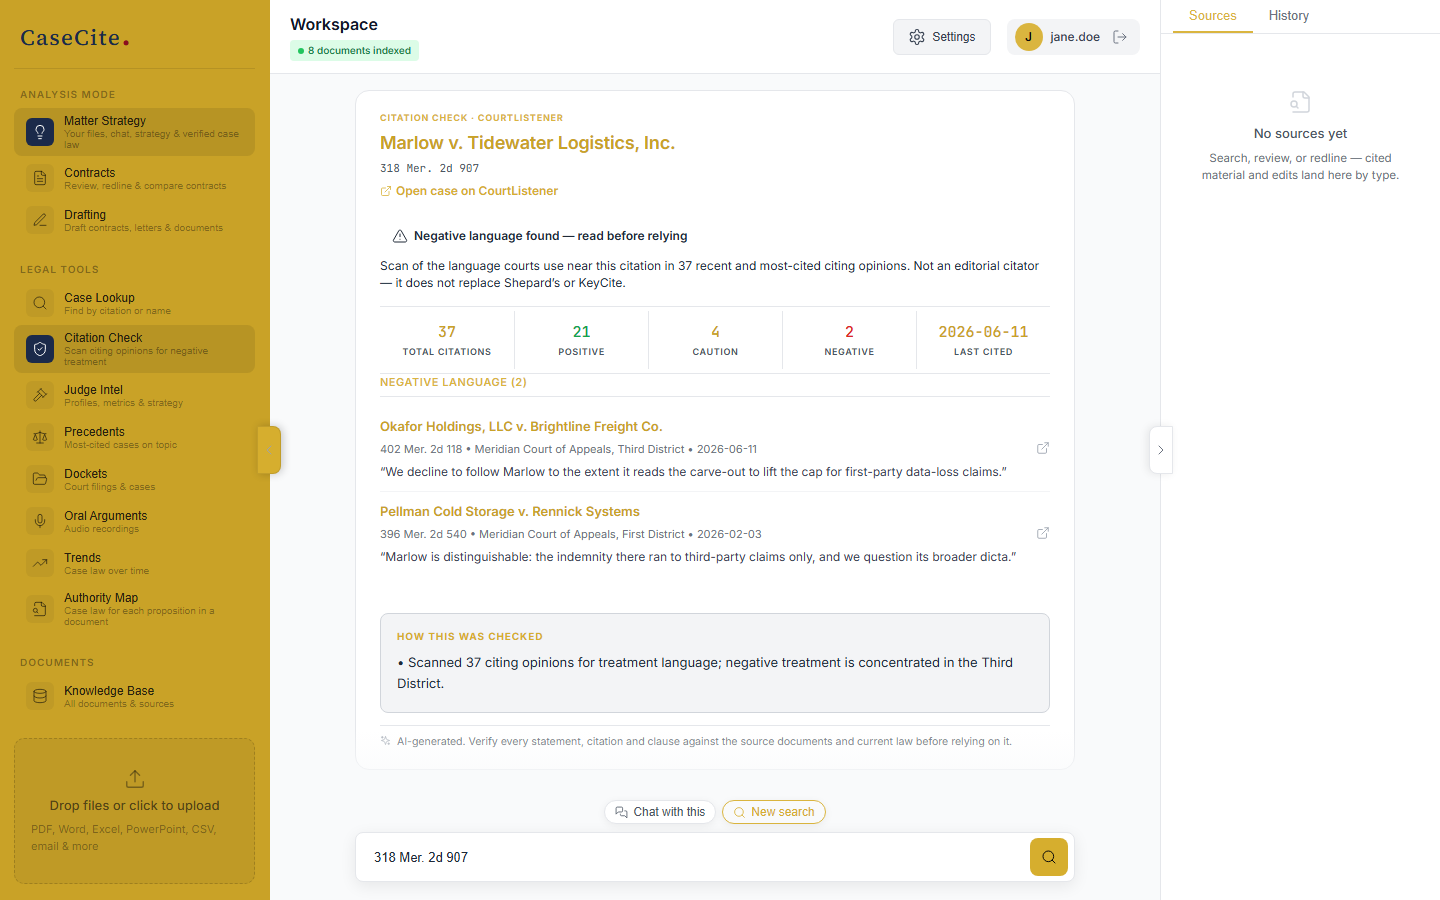
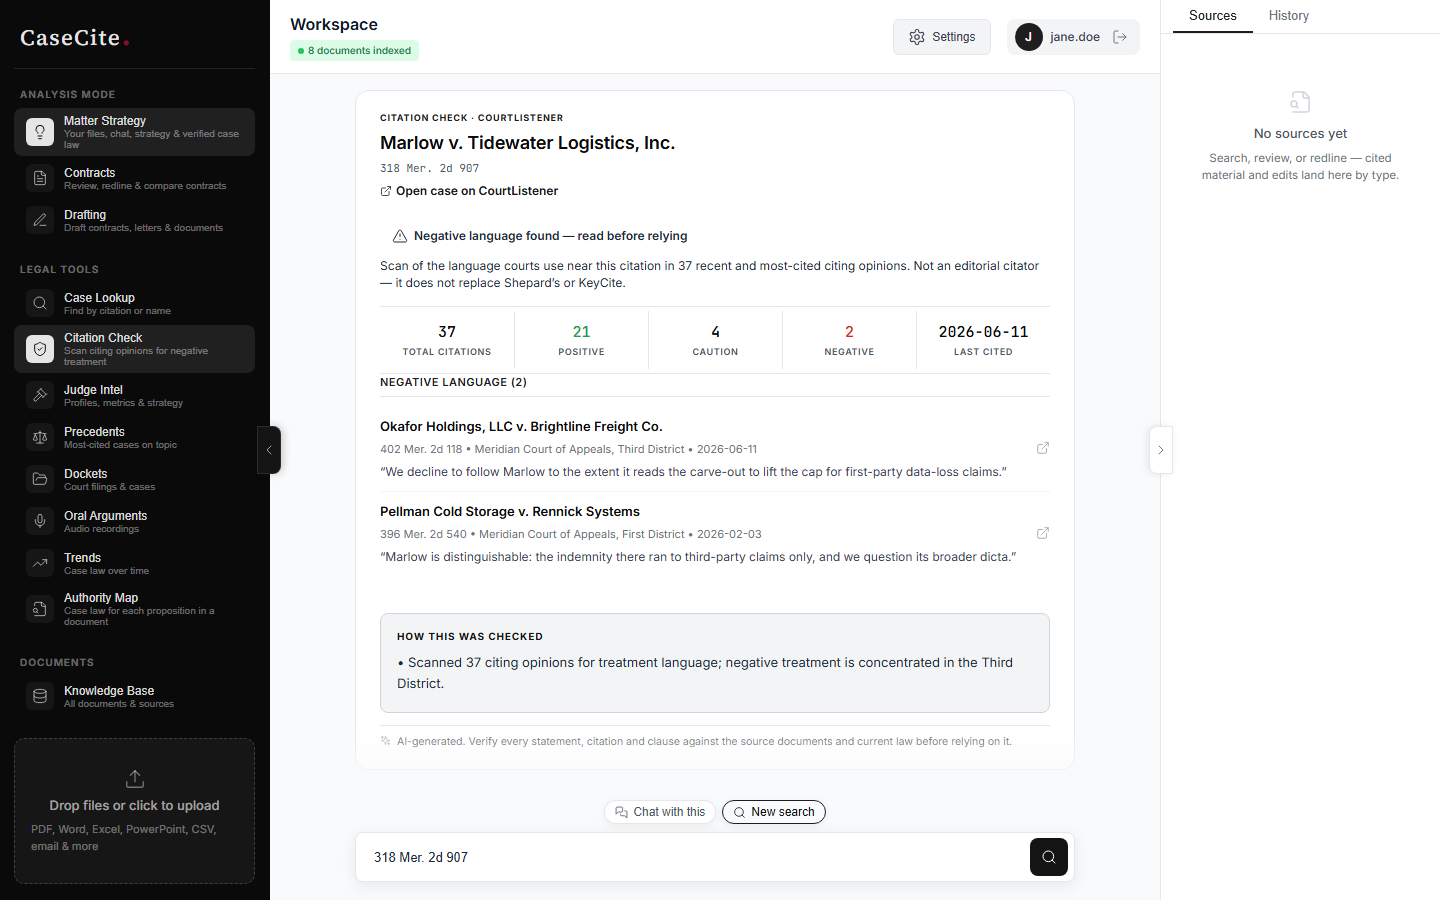
Recapture README screenshots with the default theme
The e2e branding mock returned invented firm colours (navy primary, gold
secondary), and the store maps the secondary colour onto the sidebar, so
the screenshots showed a gold sidebar no fresh install has. The mock now
returns DEFAULT_BRANDING (#E5E5E5 / #0A0A0A / #737373): dark sidebar,
neutral highlights, which is what the product ships with.

diff --git a/frontend/e2e/helpers/auth.ts b/frontend/e2e/helpers/auth.ts
@@ -105,8 +105,8 @@ export async function installApiMocks(page: Page, options: MockApiOptions = {}):
     if (path === '/csrf-token') return fulfillJson(route, 200, { csrf_token: 'test-csrf' });
     if (path === '/branding') {
       return fulfillJson(route, 200, {
-        firm_name: 'CaseCite', logo_url: null, primary_color: '#1B2A4A',
-        secondary_color: '#C9A227', accent_color: '#2E5C8A', favicon_url: null, updated_at: null,
+        firm_name: 'CaseCite', logo_url: null, primary_color: '#E5E5E5',
+        secondary_color: '#0A0A0A', accent_color: '#737373', favicon_url: null, updated_at: null,
       });
     }
 
